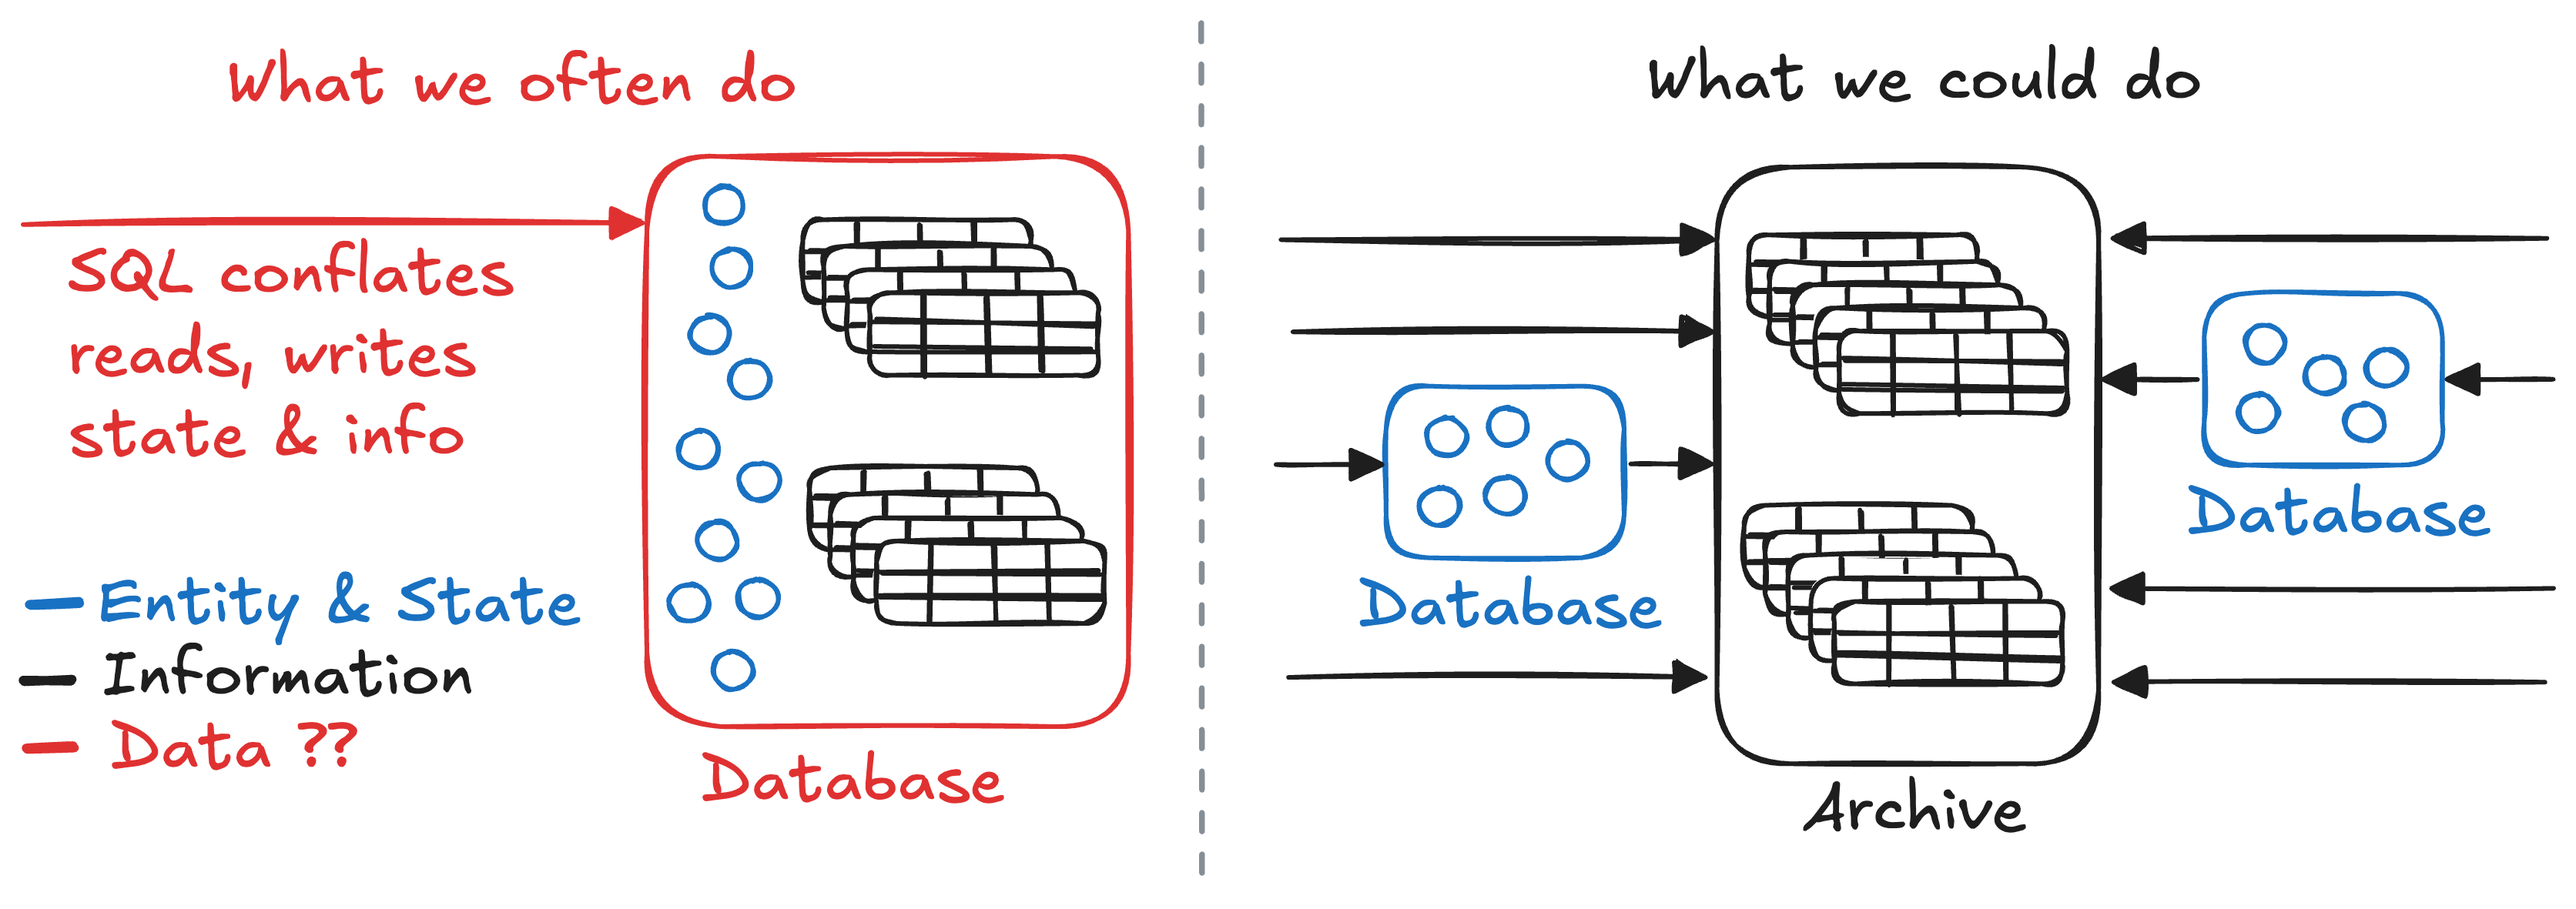
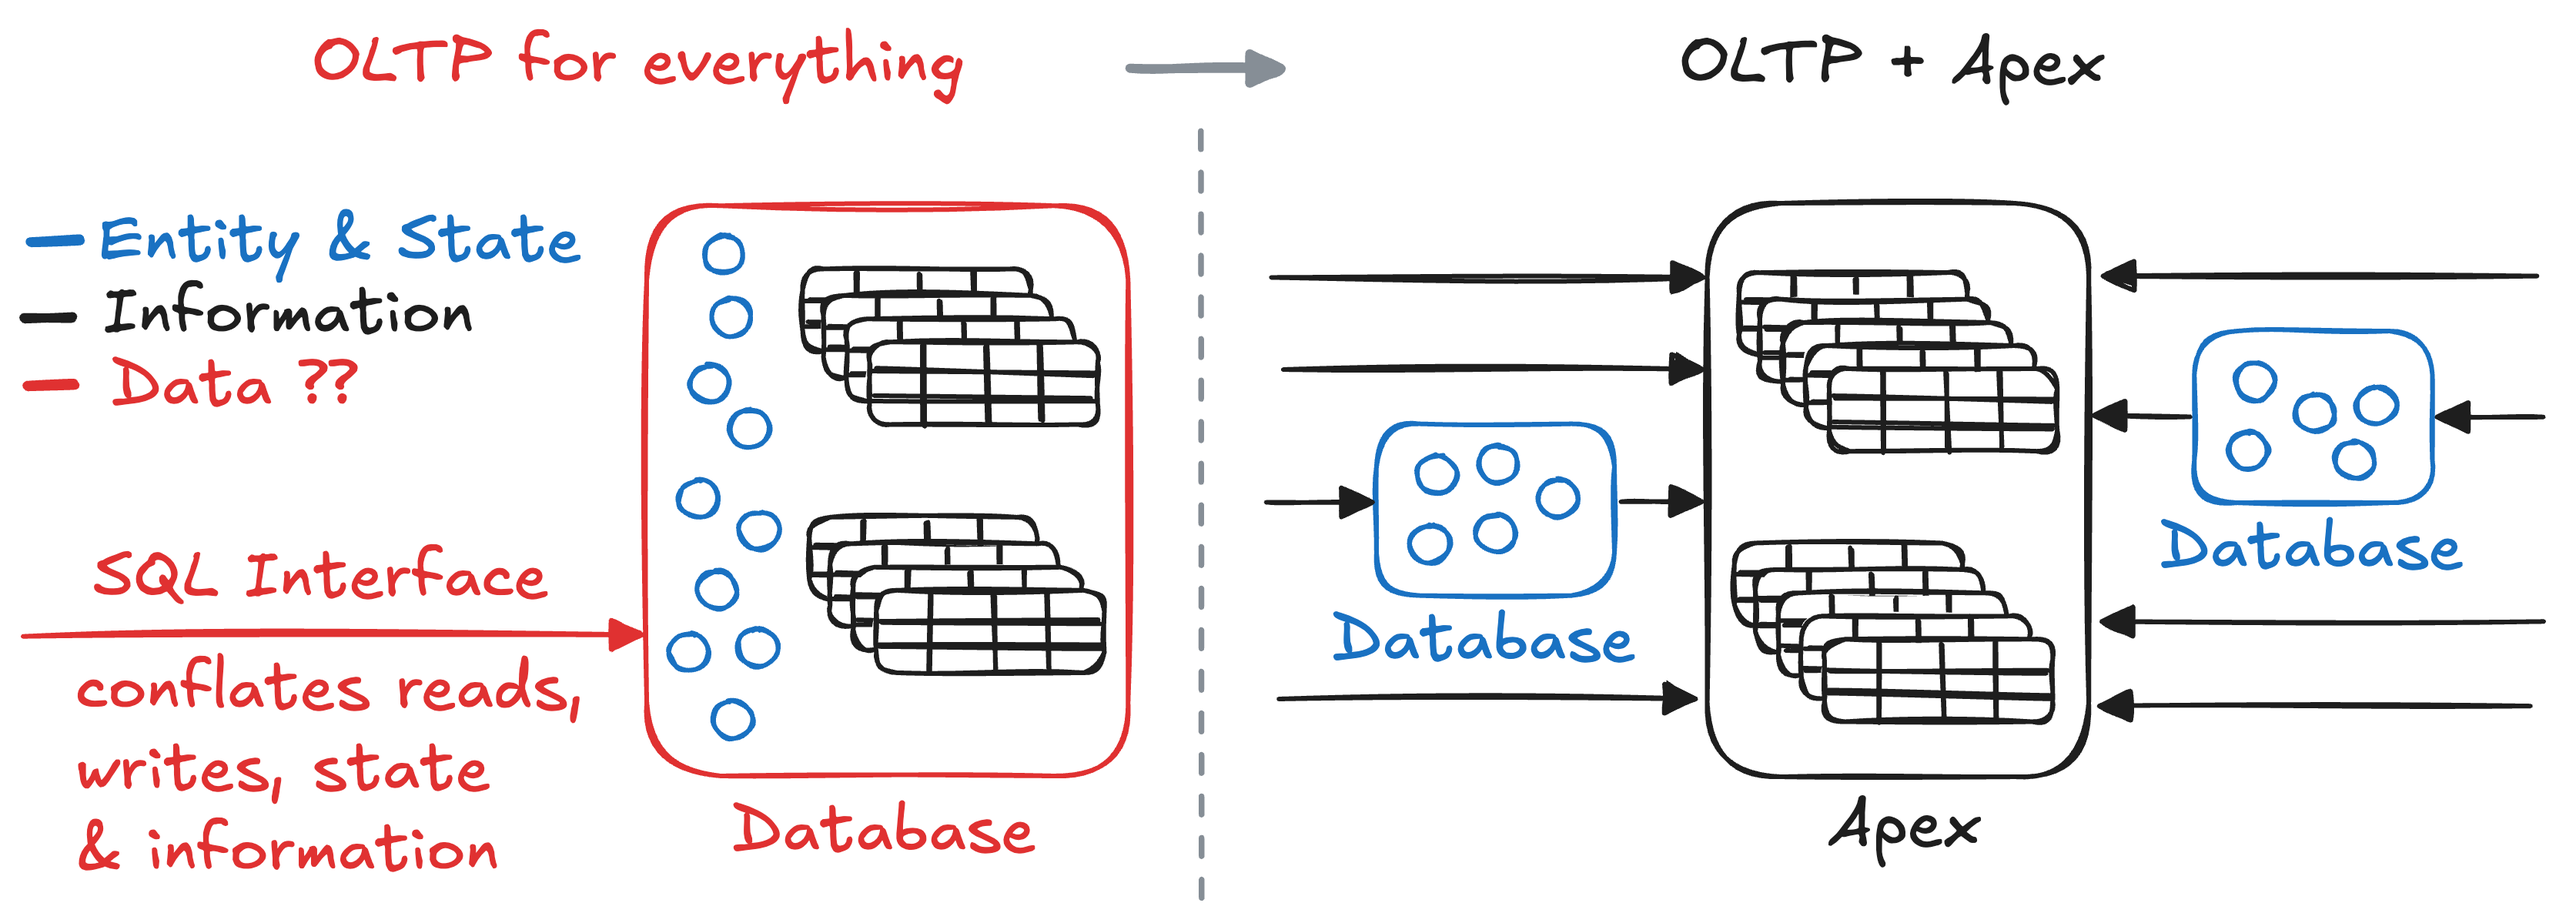
update apex draft

diff --git a/blog/why-apex.md b/blog/why-apex.md
@@ -104,11 +104,16 @@ by comparison.
 ## Release the Records!
 
 The previous sections argue that information and record-keeping don't belong in
-OLTP databases. So let's pull them apart! Revert OLTP databases back to what
-they do best - transactions and introduce an archive to store and distribute
-information to wherever the questions are.
+OLTP databases. So let's pull them apart!
 
 ![database and archive vs database only](images/db-arc.png)
+
+Keep your existing transaction technology, we don't need to reinvent the wheel
+here, just stop burdening them with record-keeping and use them for what they do
+best - transactions.
+
+On the information side I'll make the case for Apex: an archive to store and
+distribute information to wherever the questions are.
 
 ### OLTP restored
 
@@ -186,11 +191,13 @@ unnoticed? An archival system designed for information mitigates this risk.
 Overall, OLTP components become low-ceremony parts of the system rather than a
 single point of failure that everyone is afraid to touch.
 
-### Information unlocked
+### Apex: Information unlocked
 
 With all state coordination taken care of, we can shift our focus to an archive
-that best leverages the immutable nature of information. What characteristics
-should we realistically aim for in an ideal solution?
+that best leverages the immutable nature of information.
+
+Apex is my take on what should be possible when we build specifically for
+information. What capabilities and outcomes should we realistically aim for?
 
 #### Extreme durability
 
@@ -211,27 +218,41 @@ So let's do that - build something users can count on to answer their questions.
 
 #### Fast Answers Everywhere
 
-Once you carefully capture information you get this wonderful property that it's
-the same everywhere. So we absolutely should send it everywhere! The outcome is
-global low-latency queries. Imagine if you could just query a CDN. It's
-possible!
+If you haven't caught on yet, information has this wonderful property that it's
+the same everywhere. The constraints of storage are essentially gone, so we
+absolutely should store it everywhere! The outcome is global low-latency
+queries. Imagine just querying a CDN instead of the database. It's possible!
 
 > Our vast global network spanning 330 cities is one of the fastest on the
 > planet. In fact, we can reach about 95% of the world’s population within
 > approximately 50 ms. - [Cloudflare](https://www.cloudflare.com/security/)
 
-But why stop there? Immutable records can be cached directly in your
-applications, directly on user devices - some queries could be effectively
-instant!
+Why stop there? Immutable records can be cached directly in our applications,
+directly on user devices - some queries could be effectively instant perhaps
+even offline! What's more, all queries are independent, they don't affect any
+other queries or transactions in any way.
 
 If you use an OLTP database for everything you're leaving all this value on the
 table. Anyone that believes "the edge" is incompatible with our "data" systems
 is missing out!
 
-### Write throughput/latency
+#### A proper basis
 
-TODO
+Content addressing gives every set of information a unique, verifiable hash.
+Sharing the hash conveys the entire set of records - a true immutable basis. Any
+computed results or analysis become completely reproducible by anyone with the
+hash.
 
-### Comparison/Ordering/Indexing
+Where this matters: A user reports a bug, but you've got no way to reproduce it
+because the state of the database has evolved. A proper basis solves that.
 
-TODO
+#### Other constraints
+
+- We gain leverage over information by comparing records so let's provide all
+  the records sorted (indexed).
+- Scalable writes. If there's a lot of information we need to be able to ingest
+  it all in a reasonable amount of time globally.
+
+---
+
+If you're excited about any of this or have questions, get in touch!
